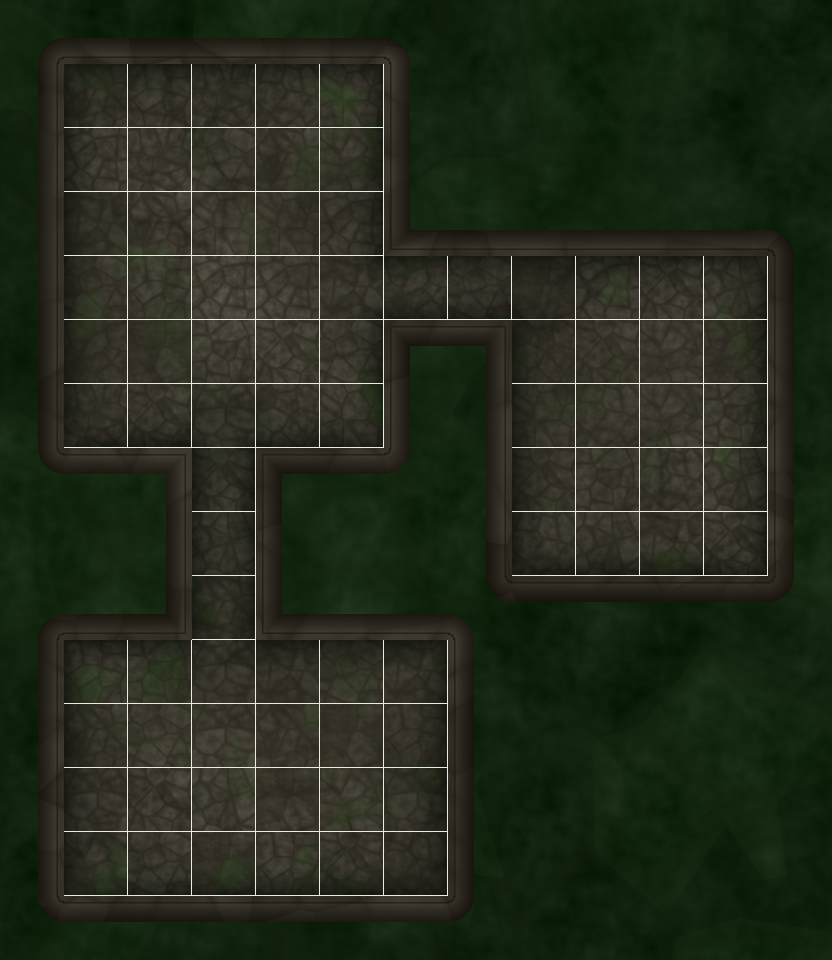
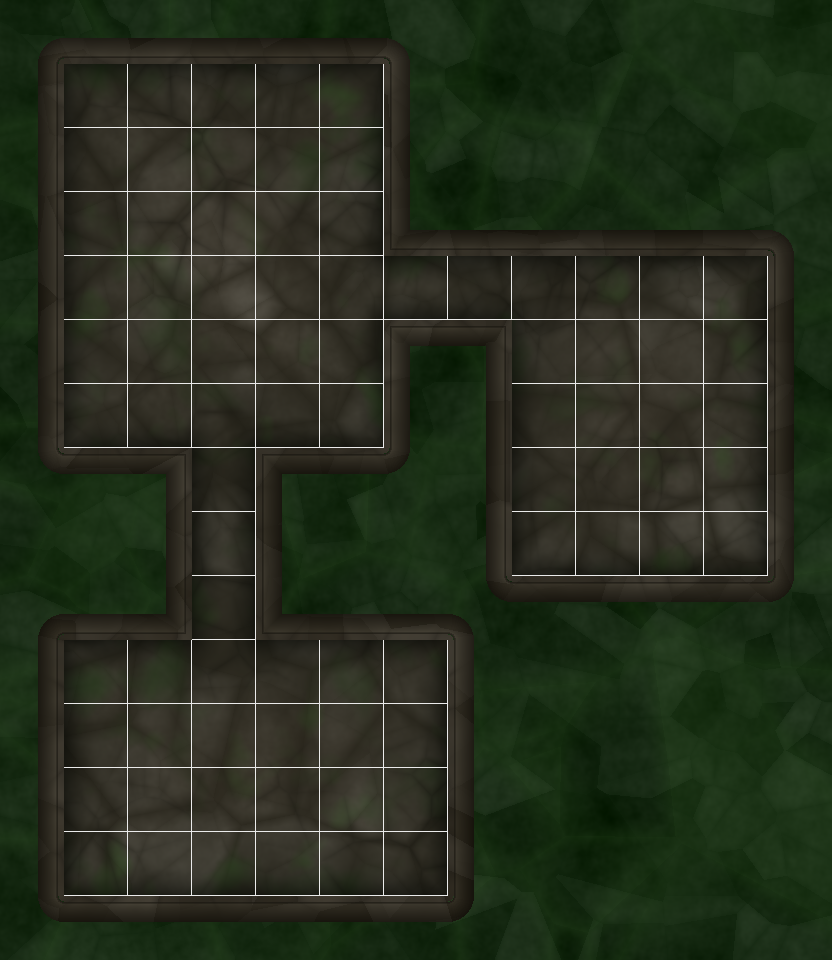
128 unique floor tiles, much darker exteriors
- Generate 128 unique floor tiles on the fly (Voronoi + noise at
  64x64) so every cell gets its own tile. Zero repeats.
- Drastically darken all three exterior palettes so the background
  recedes and rooms pop. Jungle ~50% darker, ice ~50%, volcano ~40%.
- Keep continuous moss/overlay system — flows across tile boundaries.

diff --git a/tools/texgen/preview.py b/tools/texgen/preview.py
@@ -164,9 +164,9 @@ THEMES = {
         'wall_top': (55, 50, 40),
         'wall_face_lit': (65, 60, 48),
         'wall_face_dark': (25, 22, 15),
-        'exterior': (22, 42, 18),
-        'exterior_accent': (12, 28, 10),
-        'exterior_detail': (30, 55, 22),
+        'exterior': (10, 22, 8),
+        'exterior_accent': (5, 12, 4),
+        'exterior_detail': (15, 30, 10),
         'shadow_color': (8, 12, 5),
         'stone_density': 0.7,
         'moss_coverage': 0.35,
@@ -182,9 +182,9 @@ THEMES = {
         'wall_top': (120, 135, 155),
         'wall_face_lit': (130, 148, 168),
         'wall_face_dark': (50, 65, 88),
-        'exterior': (38, 52, 72),
-        'exterior_accent': (22, 32, 52),
-        'exterior_detail': (50, 68, 90),
+        'exterior': (18, 28, 42),
+        'exterior_accent': (10, 16, 28),
+        'exterior_detail': (25, 38, 55),
         'shadow_color': (15, 22, 40),
         'stone_density': 0.6,
         'moss_coverage': 0.25,
@@ -200,9 +200,9 @@ THEMES = {
         'wall_top': (38, 28, 22),
         'wall_face_lit': (50, 38, 30),
         'wall_face_dark': (18, 12, 8),
-        'exterior': (18, 6, 4),
-        'exterior_accent': (55, 12, 4),
-        'exterior_detail': (80, 20, 8),
+        'exterior': (12, 4, 2),
+        'exterior_accent': (30, 8, 3),
+        'exterior_detail': (45, 12, 5),
         'shadow_color': (5, 2, 1),
         'stone_density': 1.0,
         'moss_coverage': 0.18,
@@ -215,48 +215,78 @@ THEMES = {
 # Continuous floor rendering (no tile stamping)
 # ---------------------------------------------------------------------------
 
-def render_continuous_floor(canvas_arr, floor_mask, theme):
-    """
-    Generate floor as one continuous image using multiple overlapping
-    Voronoi patterns at different scales for visual richness:
-    - Large flagstones (low density Voronoi)
-    - Medium block detail (higher density)
-    - Fine surface noise (fbm)
-    No tile boundaries, no duplicate tile problem.
-    """
-    print("    Floor (continuous)...", end='', flush=True)
+def generate_floor_tile(size, theme, seed):
+    """Generate a single unique floor tile on the fly."""
+    pn = VectorPerlinNoise(seed)
+    rng = np.random.RandomState(seed)
+
     base = np.array(theme['floor_base'], dtype=np.float64)
     accent = np.array(theme['floor_accent'], dtype=np.float64)
     mortar = np.array(theme['mortar'], dtype=np.float64)
+    n_cells = int(6 + rng.randint(6))  # 6-11 cells per tile for variety
+
+    # Voronoi for stone blocks
+    pts = rng.uniform(0, size, (n_cells, 2))
+    cell_vals = rng.uniform(0.2, 1.0, n_cells)
+    # Tile 3x3 for seamless edges
+    pts_tiled = []
+    vals_tiled = []
+    for dx in (-size, 0, size):
+        for dy in (-size, 0, size):
+            pts_tiled.append(pts + np.array([dx, dy]))
+            vals_tiled.append(cell_vals)
+    pts_all = np.concatenate(pts_tiled)
+    vals_all = np.concatenate(vals_tiled)
+
+    yy, xx = np.mgrid[0:size, 0:size]
+    coords = np.stack([xx.ravel(), yy.ravel()], axis=1).astype(np.float64)
+    dists = np.sqrt(((coords[:, None, :] - pts_all[None, :, :]) ** 2).sum(axis=2))
+    nearest = np.argmin(dists, axis=1)
+    cells = vals_all[nearest].reshape(size, size)
+    part = np.partition(dists, 2, axis=1)[:, :2]
+    part.sort(axis=1)
+    edges = (part[:, 1] - part[:, 0]).reshape(size, size)
+    mn, mx = edges.min(), edges.max()
+    if mx - mn > 1e-8:
+        edges = (edges - mn) / (mx - mn)
+
+    # Surface noise
+    x_scaled = xx.astype(np.float64) / size * 6.0
+    y_scaled = yy.astype(np.float64) / size * 6.0
+    surface = pn.fbm_2d(x_scaled, y_scaled, octaves=3)
+    surface = (surface - surface.min()) / (surface.max() - surface.min() + 1e-8)
+
+    tile = np.zeros((size, size, 4), dtype=np.float64)
+    t = cells
     contrast = theme['contrast']
-
-    # Large flagstones
-    cells_lg, edges_lg = continuous_voronoi(PX_H, PX_W, density=theme['stone_density'], seed=42)
-    # Medium blocks (higher density, different seed)
-    cells_md, edges_md = continuous_voronoi(PX_H, PX_W, density=theme['stone_density'] * 2.5, seed=43)
-    # Surface noise at multiple scales
-    surface_lg = continuous_noise(PX_H, PX_W, scale=0.8, octaves=4, seed=100)
-    surface_fine = continuous_noise(PX_H, PX_W, scale=3.0, octaves=3, seed=101)
-    surface_micro = continuous_noise(PX_H, PX_W, scale=8.0, octaves=2, seed=102)
-
-    # Blend cell values from both scales
-    cells = cells_lg * 0.6 + cells_md * 0.4
-
     for c in range(3):
-        # Base color from blended cell values
-        color = base[c] * cells + accent[c] * (1 - cells)
-        # Multi-scale surface variation
-        color += (surface_lg - 0.5) * contrast * 0.6
-        color += (surface_fine - 0.5) * contrast * 0.3
-        color += (surface_micro - 0.5) * contrast * 0.15
-        # Large flagstone mortar lines (thick, prominent)
-        mortar_lg = np.clip(1.0 - edges_lg * 3.5, 0, 1) ** 1.5
-        color = color * (1 - mortar_lg * 0.65) + mortar[c] * mortar_lg * 0.65
-        # Medium block mortar (thinner, subtler)
-        mortar_md = np.clip(1.0 - edges_md * 5.0, 0, 1) ** 2.0
-        color = color * (1 - mortar_md * 0.25) + mortar[c] * mortar_md * 0.25
-        canvas_arr[:, :, c] = np.where(floor_mask, np.clip(color, 0, 255), canvas_arr[:, :, c])
-    canvas_arr[:, :, 3] = np.where(floor_mask, 255, canvas_arr[:, :, 3])
+        color = base[c] * t + accent[c] * (1 - t)
+        color += (surface - 0.5) * contrast
+        # Mortar lines
+        mortar_mask = np.clip(1.0 - edges * 4.0, 0, 1) ** 1.5
+        color = color * (1 - mortar_mask * 0.7) + mortar[c] * mortar_mask * 0.7
+        tile[:, :, c] = np.clip(color, 0, 255)
+    tile[:, :, 3] = 255
+    return tile
+
+
+def stamp_unique_floors(canvas_arr, floor_mask, theme):
+    """Stamp a unique procedural tile for every floor cell. No repeats."""
+    print("    Floor tiles (128 unique)...", end='', flush=True)
+    # Count floor cells and pre-generate enough unique tiles
+    floor_cells = [(r, c) for r in range(ROWS) for c in range(COLS) if LAYOUT[r, c] == 1]
+    n_tiles = max(len(floor_cells), 128)
+    tiles = []
+    for i in range(n_tiles):
+        tiles.append(generate_floor_tile(TILE, theme, seed=1000 + i))
+
+    # Assign tiles to cells — just use sequential assignment (all unique)
+    rng = np.random.RandomState(42)
+    indices = list(range(n_tiles))
+    rng.shuffle(indices)
+    for idx, (r, c) in enumerate(floor_cells):
+        tile = tiles[indices[idx % n_tiles]]
+        canvas_arr[r*TILE:(r+1)*TILE, c*TILE:(c+1)*TILE] = tile
     print(" done")
 
 
@@ -492,7 +522,7 @@ def render_preview(theme_name, output_path):
     render_exterior(canvas_arr, floor_mask, theme)
     print(" done")
 
-    render_continuous_floor(canvas_arr, floor_mask, theme)
+    stamp_unique_floors(canvas_arr, floor_mask, theme)
 
     print("    Overlays...", end='', flush=True)
     render_overlays(canvas_arr, floor_mask, inner_dist, theme)
